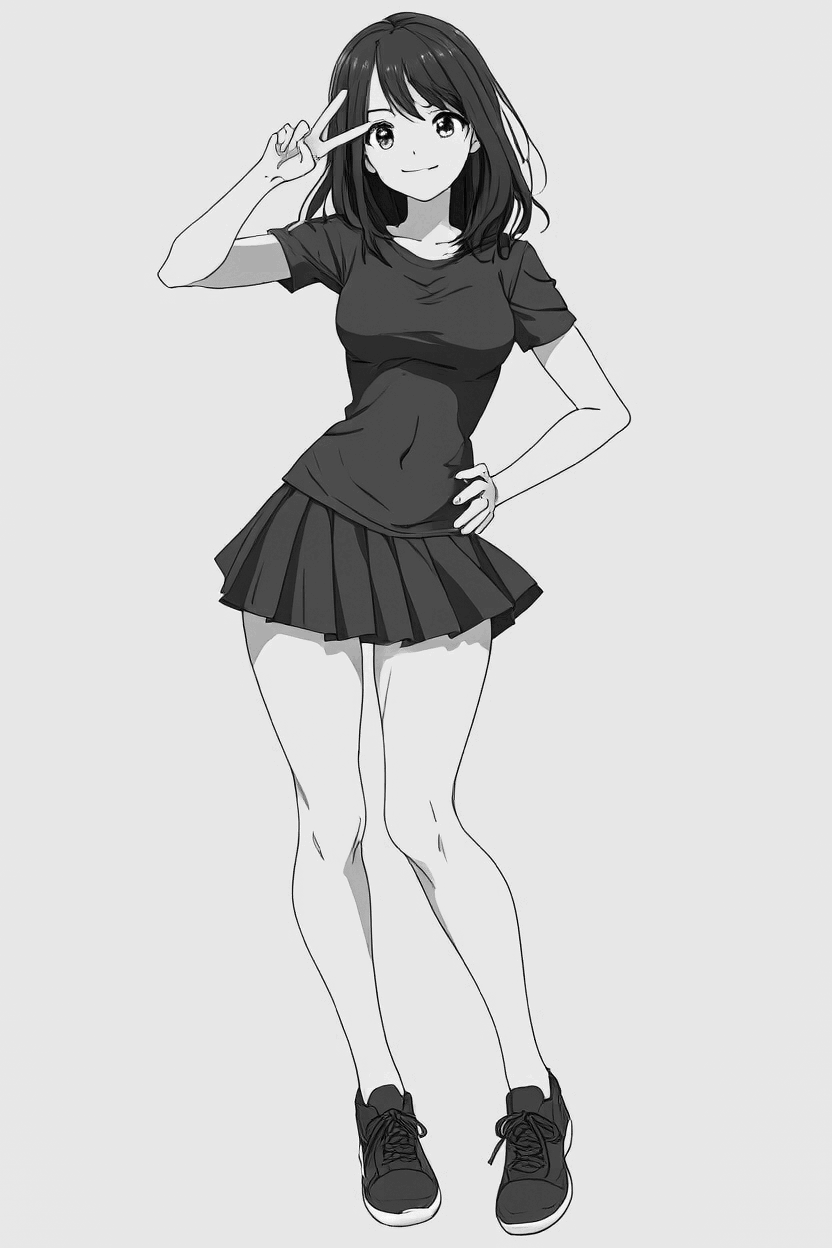
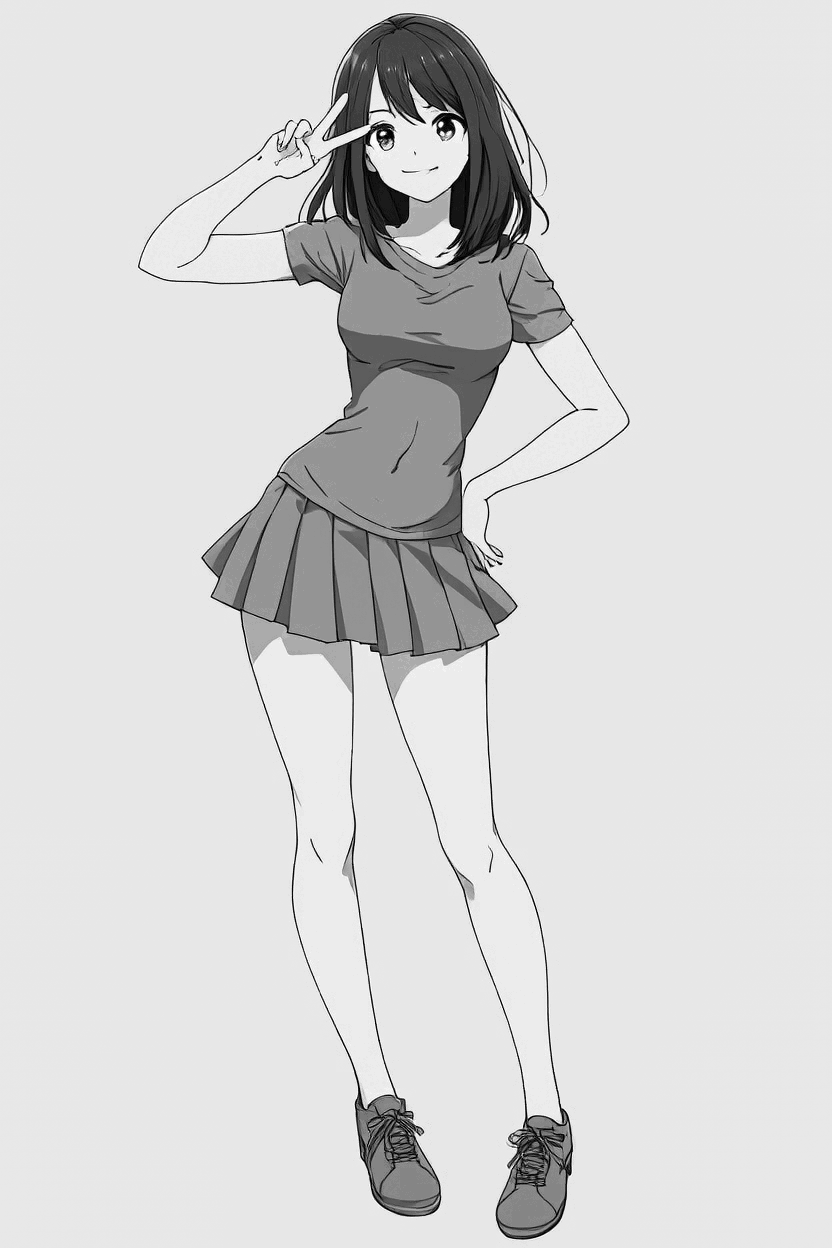
Bodies: words-only first (reference batch shapes), young/grown-up curvy, athletic without six-pack (tags + new drawings), guide shows words vs drawing with limits, athletic example regenerated

diff --git a/docs/guide/index.html b/docs/guide/index.html
@@ -291,10 +291,33 @@ Claude: "what's the tag for the hair buns on the side of the head?" (<code>doubl
 pictures work best. Write them with spaces, not underscores (the Studio fixes that for you).</p>
 
 <h2 id="bodies"><span class="n">5</span>Body types and poses</h2>
-<p>Words alone are unreliable for body types: <code>chibi</code> and <code>curvy</code> work, <code>petite</code> barely
-does, and the model quietly drifts back to its favourite body. The Studio solves that with a <b>body drawing</b>: a plain
-grey picture of a figure with the body and pose you want. The body adapter steers the drawing toward that shape, while
-the style still comes from the prompt and the outfit and background from your tags.</p>
+<p>There are two ways to give her a body type, and the Studio's body menu has both. <b>Words</b> (tags) come first in the
+menu, with a small sample picture; <b>drawings</b> (grey pictures of a figure) follow.</p>
+
+<h3>With words: the model's own idea of the body</h3>
+<p>Body tags with a weight, like <code>(curvy:1.6), (wide hips:1.4), thick thighs</code>. Anima learned these words from
+thousands of drawings, so it draws the shape it knows best: natural curves, a pose that fits her, the Love Live
+proportions. For most body types this gives the nicest shapes.</p>
+<div class="strip c6">
+  <figure><img src="img/words_curvy.jpg" alt="Curvy from words"><figcaption><b>curvy</b></figcaption></figure>
+  <figure><img src="img/words_petite.jpg" alt="Petite from words"><figcaption><b>petite</b></figcaption></figure>
+  <figure><img src="img/words_tall.jpg" alt="Tall from words"><figcaption><b>tall</b></figcaption></figure>
+  <figure><img src="img/words_soft.jpg" alt="Soft from words"><figcaption><b>soft</b></figcaption></figure>
+  <figure><img src="img/words_athletic.jpg" alt="Athletic from words"><figcaption><b>athletic</b>: toned, slim; <code>muscular</code> in "avoid" keeps the six-pack away</figcaption></figure>
+  <figure><img src="img/words_chibi.jpg" alt="Chibi from words"><figcaption><b>chibi</b></figcaption></figure>
+</div>
+<p><b>Young or grown-up curvy</b> is a style choice as much as a body word. Add <code>mature female</code> and use the
+<b>TV look</b> style for a grown-up face; keep the <b>signature</b> style for the younger Love Live face:</p>
+<div class="strip c4">
+  <figure><img src="img/words_curvy_young.jpg" alt="Young curvy"><figcaption><b>curvy</b>, signature style: the Love Live schoolgirl face</figcaption></figure>
+  <figure><img src="img/words_curvy_adult.jpg" alt="Grown-up curvy"><figcaption><b>curvy + mature female</b>, TV look: older face, fuller figure</figcaption></figure>
+  <figure><img src="img/words_curvy_young2.jpg" alt="Young curvy idol"><figcaption>the same two on another girl</figcaption></figure>
+  <figure><img src="img/words_curvy_adult2.jpg" alt="Grown-up curvy idol"><figcaption></figcaption></figure>
+</div>
+
+<h3>With a drawing: exactly this body, exactly this pose</h3>
+<p>A plain grey picture of a figure goes through the body adapter, which steers the drawing toward that shape and pose.
+The style still comes from the prompt, and the outfit and background from your tags.</p>
 <div class="strip c6">
   <figure class="ctl"><img src="img/ctl_average_idol.jpg" alt="Average body, idol pose drawing"><figcaption>average, idol pose</figcaption></figure>
   <figure class="ctl"><img src="img/ctl_petite.jpg" alt="Petite body drawing"><figcaption>petite</figcaption></figure>
@@ -303,7 +326,7 @@ the style still comes from the prompt and the outfit and background from your ta
   <figure class="ctl"><img src="img/ctl_soft.jpg" alt="Soft body drawing"><figcaption>soft</figcaption></figure>
   <figure class="ctl"><img src="img/ctl_chibi.jpg" alt="Chibi body drawing"><figcaption>chibi</figcaption></figure>
 </div>
-<p>One idol, one stage, one seed, and only the body drawing changes:</p>
+<p>One idol, one stage, one seed, and only the drawing changes:</p>
 <div class="strip c6">
   <figure><img src="img/body_petite.jpg" alt="Petite idol"><figcaption><b>petite</b></figcaption></figure>
   <figure><img src="img/body_curvy.jpg" alt="Curvy idol"><figcaption><b>curvy</b></figcaption></figure>
@@ -312,8 +335,25 @@ the style still comes from the prompt and the outfit and background from your ta
   <figure><img src="img/body_athletic.jpg" alt="Athletic idol"><figcaption><b>athletic</b></figcaption></figure>
   <figure><img src="img/body_chibi.jpg" alt="Chibi idol"><figcaption><b>chibi</b></figcaption></figure>
 </div>
-<p>The stage, the lights, the orange side ponytail and the Love Live face stay. Only the body changes. The drawings are
-on a plain background, so they don't drag their own scene in.</p>
+
+<h3>Words or drawing? Side by side</h3>
+<div class="strip c6">
+  <figure><img src="img/vs_curvy_words.jpg" alt="Curvy, words"><figcaption><b>curvy, words</b>: rounder, more natural curves</figcaption></figure>
+  <figure><img src="img/vs_curvy_drawing.jpg" alt="Curvy, drawing"><figcaption><b>curvy, drawing</b>: the drawing's pose; shape only as good as the drawing</figcaption></figure>
+  <figure><img src="img/vs_petite_words.jpg" alt="Petite, words"><figcaption><b>petite, words</b></figcaption></figure>
+  <figure><img src="img/vs_petite_drawing.jpg" alt="Petite, drawing"><figcaption><b>petite, drawing</b>: reliably small every time</figcaption></figure>
+  <figure><img src="img/vs_soft_words.jpg" alt="Soft, words"><figcaption><b>soft, words</b></figcaption></figure>
+  <figure><img src="img/vs_soft_drawing.jpg" alt="Soft, drawing"><figcaption><b>soft, drawing</b></figcaption></figure>
+</div>
+<div class="tbl"><table>
+  <thead><tr><th></th><th>Words (tags)</th><th>Drawing</th></tr></thead>
+  <tbody>
+  <tr><td><b>Good at</b></td><td>Natural, well-drawn shapes (curvy, tall, soft, chibi especially); lively poses that fit the scene; nothing to set up</td><td>Exactly the body and pose you picked, every seed; bodies words can't describe ("5.5 heads tall, short arms"); the same body across a whole series</td></tr>
+  <tr><td><b>Limits</b></td><td><code>petite</code> is weak; how strong the body comes out varies with the seed and the outfit; you can't pick the pose or exact proportions; too-high weights (above ~1.8) break anatomy</td><td>The shape is only as good as the drawing (our curvy drawing is less shapely than the words); poses are stiffer; at high strength she copies the drawing's T-shirt shape and hair; the figure must fill its frame, or the face comes out small</td></tr>
+  <tr><td><b>Use it for</b></td><td>Most pictures: start here</td><td>A specific pose, a body the words miss, or a character who must look the same in every picture</td></tr>
+  </tbody>
+</table></div>
+
 <h3>Why the drawing fills its frame</h3>
 <p>The drawing also decides how big she is in the picture. A small figure with lots of empty space around it gives a
 small face, and a small face loses the big Love Live eyes. That's why every drawing fills its frame from head to feet,
@@ -498,7 +538,7 @@ steer away from that in general.</p>
 </main>
 </div>
 <div id="zoom" role="dialog" aria-label="Enlarged picture"><img alt=""></div>
-<script id="exdata" type="application/json">[{"title": "Seaside schoolgirl (the lab's test girl)", "style": "ll_signature", "body": "none", "seed": 1, "prompt": "masterpiece, best quality, year 2016, anime screenshot, 1girl, solo, short silver hair, single braid, purple eyes, white cardigan, sailor school uniform, pleated skirt, @murota yuuhei, cowboy shot, holding paper cup, seaside railing, ocean, blue sky, smile", "img": "img/ex01.jpg", "character": "1girl, solo, short silver hair, single braid, purple eyes, white cardigan, sailor school uniform, pleated skirt", "scene": "cowboy shot, holding paper cup, seaside railing, ocean, blue sky, smile", "secs": 64.2}, {"title": "Idol on stage", "style": "ll_signature", "body": "average_idol", "seed": 2, "prompt": "masterpiece, best quality, year 2016, anime screenshot, 1girl, solo, long orange hair, side ponytail, green eyes, idol clothes, frilled dress, white gloves, hair ribbon, @murota yuuhei, full body, concert stage, stage lights, light particles, smile, open mouth", "img": "img/ex02.jpg", "character": "1girl, solo, long orange hair, side ponytail, green eyes, idol clothes, frilled dress, white gloves, hair ribbon", "scene": "concert stage, stage lights, light particles, smile, open mouth", "secs": 74.2}, {"title": "Card art with sparkles", "style": "ll_card", "body": "none", "seed": 1, "prompt": "masterpiece, best quality, year 2016, official art, 1girl, solo, long black hair, hime cut, red eyes, idol clothes, white and gold dress, tiara, detached sleeves, @murota yuuhei, upper body, sparkle, light particles, flower petals, looking at viewer, smile", "img": "img/ex03.jpg", "character": "1girl, solo, long black hair, hime cut, red eyes, idol clothes, white and gold dress, tiara, detached sleeves", "scene": "upper body, sparkle, light particles, flower petals, looking at viewer, smile", "secs": 72.2}, {"title": "Summer festival yukata", "style": "ll_signature", "body": "none", "seed": 1, "prompt": "masterpiece, best quality, year 2016, anime screenshot, 1girl, solo, medium pink hair, low twintails, blue eyes, yukata, floral print, hair flower, @murota yuuhei, cowboy shot, summer festival, night, paper lanterns, fireworks, holding fan, smile", "img": "img/ex04.jpg", "character": "1girl, solo, medium pink hair, low twintails, blue eyes, yukata, floral print, hair flower", "scene": "cowboy shot, summer festival, night, paper lanterns, fireworks, holding fan, smile", "secs": 73.5}, {"title": "Rainy afternoon", "style": "ll_signature", "body": "none", "seed": 1, "prompt": "masterpiece, best quality, year 2016, anime screenshot, 1girl, solo, short blue hair, bob cut, tareme, grey eyes, oversized hoodie, school bag, @murota yuuhei, upper body, rain, transparent umbrella, city street, puddles, wet hair, gentle smile", "img": "img/ex05.jpg", "character": "1girl, solo, short blue hair, bob cut, tareme, grey eyes, oversized hoodie, school bag", "scene": "upper body, rain, transparent umbrella, city street, puddles, wet hair, gentle smile", "secs": 74.4}, {"title": "Rooftop at sunset", "style": "ll_signature", "body": "none", "seed": 1, "prompt": "masterpiece, best quality, year 2016, anime screenshot, 1girl, solo, long brown hair, ponytail, amber eyes, sailor school uniform, red neckerchief, @murota yuuhei, cowboy shot, school rooftop, sunset, orange sky, wind, hair blowing, looking back, smile", "img": "img/ex06.jpg", "character": "1girl, solo, long brown hair, ponytail, amber eyes, sailor school uniform, red neckerchief", "scene": "cowboy shot, school rooftop, sunset, orange sky, wind, hair blowing, looking back, smile", "secs": 74.2}, {"title": "Cafe, sitting", "style": "ll_signature", "body": "average_sit", "seed": 2, "prompt": "masterpiece, best quality, year 2016, anime screenshot, 1girl, solo, wavy blonde hair, long hair, green eyes, beret, cream sweater, long skirt, @murota yuuhei, full body, sitting, cafe, window, holding cup, latte, warm lighting, smile", "img": "img/ex07.jpg", "character": "1girl, solo, wavy blonde hair, long hair, green eyes, beret, cream sweater, long skirt", "scene": "cafe, window, holding cup, latte, warm lighting, smile", "secs": 74.4}, {"title": "Jumping for joy", "style": "ll_signature", "body": "average_jump", "seed": 1, "prompt": "masterpiece, best quality, year 2016, anime screenshot, 1girl, solo, short orange hair, ahoge, red eyes, sailor school uniform, pleated skirt, @murota yuuhei, full body, jumping, cherry blossoms, petals, blue sky, open mouth, happy", "img": "img/ex08.jpg", "character": "1girl, solo, short orange hair, ahoge, red eyes, sailor school uniform, pleated skirt", "scene": "cherry blossoms, petals, blue sky, open mouth, happy", "secs": 75.3}, {"title": "Chibi sticker", "style": "ll_signature", "body": "chibi_idol", "seed": 1, "prompt": "masterpiece, best quality, year 2016, anime screenshot, 1girl, solo, long purple hair, twin drills, yellow eyes, idol clothes, frills, @murota yuuhei, (chibi:1.8), (super deformed:1.4), full body, simple background, white background, smile, :d", "img": "img/ex09.jpg", "character": "1girl, solo, long purple hair, twin drills, yellow eyes, idol clothes, frills", "scene": "simple background, white background, smile, :d", "secs": 74.7}, {"title": "Curvy idol", "style": "ll_signature", "body": "curvy_idol", "seed": 2, "prompt": "masterpiece, best quality, year 2016, anime screenshot, 1girl, solo, long wavy dark green hair, golden eyes, mole under eye, idol clothes, off-shoulder dress, choker, @murota yuuhei, (curvy:1.6), (wide hips:1.4), thick thighs, large breasts, mature female, full body, concert stage, stage lights, light particles, wink, smile", "img": "img/ex10.jpg", "character": "1girl, solo, long wavy dark green hair, golden eyes, mole under eye, idol clothes, off-shoulder dress, choker", "scene": "concert stage, stage lights, light particles, wink, smile", "secs": 74.4}, {"title": "Tall cool girl in the city", "style": "ll_signature", "body": "tall", "seed": 1, "prompt": "masterpiece, best quality, year 2016, anime screenshot, 1girl, solo, long straight black hair, tsurime, blue eyes, leather jacket, black skirt, boots, @murota yuuhei, (tall female:1.6), (skinny:1.3), long legs, full body, night, city, neon lights, street, serious, looking at viewer", "img": "img/ex11.jpg", "character": "1girl, solo, long straight black hair, tsurime, blue eyes, leather jacket, black skirt, boots", "scene": "night, city, neon lights, street, serious, looking at viewer", "secs": 74.5}, {"title": "Soft and cozy winter", "style": "ll_signature", "body": "soft", "seed": 1, "prompt": "masterpiece, best quality, year 2016, anime screenshot, 1girl, solo, short light brown hair, braid, brown eyes, freckles, red scarf, knit sweater, pleated skirt, black pantyhose, mittens, @murota yuuhei, (plump:1.5), chubby, round face, thick arms, thick thighs, full body, snow, winter, town, christmas lights, blush, smile", "img": "img/ex12.jpg", "character": "1girl, solo, short light brown hair, braid, brown eyes, freckles, red scarf, knit sweater, pleated skirt, black pantyhose, mittens", "scene": "snow, winter, town, christmas lights, blush, smile", "secs": 75.4}, {"title": "Athletic dancer", "style": "ll_signature", "body": "athletic_idol", "seed": 1, "prompt": "masterpiece, best quality, year 2016, anime screenshot, 1girl, solo, short red hair, hair intakes, orange eyes, thick eyebrows, sports bra, track jacket, shorts, @murota yuuhei, (toned:1.3), athletic, full body, dance practice room, mirror, sweat, grin", "img": "img/ex13.jpg", "character": "1girl, solo, short red hair, hair intakes, orange eyes, thick eyebrows, sports bra, track jacket, shorts", "scene": "dance practice room, mirror, sweat, grin", "secs": 75.4}, {"title": "A face that isn't generic", "style": "ll_signature", "body": "none", "seed": 1, "prompt": "masterpiece, best quality, year 2016, anime screenshot, 1girl, solo, short black hair, hair intakes, jitome, thick eyebrows, freckles, fang, green eyes, oversized cardigan, school uniform, @murota yuuhei, upper body, classroom, window, afternoon, smug", "img": "img/ex14.jpg", "character": "1girl, solo, short black hair, hair intakes, jitome, thick eyebrows, freckles, fang, green eyes, oversized cardigan, school uniform", "scene": "upper body, classroom, window, afternoon, smug", "secs": 73.4}, {"title": "Three idols together", "style": "ll_signature", "body": "none", "seed": 1, "prompt": "masterpiece, best quality, year 2016, anime screenshot, 3girls, idol clothes, matching outfits, red hair, blonde hair, blue hair, @murota yuuhei, concert stage, stage lights, holding hands, smile, open mouth, cowboy shot", "img": "img/ex15.jpg", "character": "3girls, idol clothes, matching outfits, red hair, blonde hair, blue hair", "scene": "concert stage, stage lights, holding hands, smile, open mouth, cowboy shot", "secs": 74.3}, {"title": "Canon fan art: You Watanabe", "style": "ll_canon", "body": "none", "seed": 1, "prompt": "masterpiece, best quality, year 2016, anime screenshot, love live! sunshine!!, 1girl, solo, watanabe you, uranohoshi school uniform, @murota yuuhei, cowboy shot, seaside, salute, smile, blue sky", "img": "img/ex16.jpg", "character": "1girl, solo, watanabe you, uranohoshi school uniform", "scene": "cowboy shot, seaside, salute, smile, blue sky", "secs": 71.2}]</script>
+<script id="exdata" type="application/json">[{"title": "Seaside schoolgirl (the lab's test girl)", "style": "ll_signature", "body": "none", "seed": 1, "prompt": "masterpiece, best quality, year 2016, anime screenshot, 1girl, solo, short silver hair, single braid, purple eyes, white cardigan, sailor school uniform, pleated skirt, @murota yuuhei, cowboy shot, holding paper cup, seaside railing, ocean, blue sky, smile", "img": "img/ex01.jpg", "character": "1girl, solo, short silver hair, single braid, purple eyes, white cardigan, sailor school uniform, pleated skirt", "scene": "cowboy shot, holding paper cup, seaside railing, ocean, blue sky, smile", "secs": 64.2}, {"title": "Idol on stage", "style": "ll_signature", "body": "average_idol", "seed": 2, "prompt": "masterpiece, best quality, year 2016, anime screenshot, 1girl, solo, long orange hair, side ponytail, green eyes, idol clothes, frilled dress, white gloves, hair ribbon, @murota yuuhei, full body, concert stage, stage lights, light particles, smile, open mouth", "img": "img/ex02.jpg", "character": "1girl, solo, long orange hair, side ponytail, green eyes, idol clothes, frilled dress, white gloves, hair ribbon", "scene": "concert stage, stage lights, light particles, smile, open mouth", "secs": 74.2}, {"title": "Card art with sparkles", "style": "ll_card", "body": "none", "seed": 1, "prompt": "masterpiece, best quality, year 2016, official art, 1girl, solo, long black hair, hime cut, red eyes, idol clothes, white and gold dress, tiara, detached sleeves, @murota yuuhei, upper body, sparkle, light particles, flower petals, looking at viewer, smile", "img": "img/ex03.jpg", "character": "1girl, solo, long black hair, hime cut, red eyes, idol clothes, white and gold dress, tiara, detached sleeves", "scene": "upper body, sparkle, light particles, flower petals, looking at viewer, smile", "secs": 72.2}, {"title": "Summer festival yukata", "style": "ll_signature", "body": "none", "seed": 1, "prompt": "masterpiece, best quality, year 2016, anime screenshot, 1girl, solo, medium pink hair, low twintails, blue eyes, yukata, floral print, hair flower, @murota yuuhei, cowboy shot, summer festival, night, paper lanterns, fireworks, holding fan, smile", "img": "img/ex04.jpg", "character": "1girl, solo, medium pink hair, low twintails, blue eyes, yukata, floral print, hair flower", "scene": "cowboy shot, summer festival, night, paper lanterns, fireworks, holding fan, smile", "secs": 73.5}, {"title": "Rainy afternoon", "style": "ll_signature", "body": "none", "seed": 1, "prompt": "masterpiece, best quality, year 2016, anime screenshot, 1girl, solo, short blue hair, bob cut, tareme, grey eyes, oversized hoodie, school bag, @murota yuuhei, upper body, rain, transparent umbrella, city street, puddles, wet hair, gentle smile", "img": "img/ex05.jpg", "character": "1girl, solo, short blue hair, bob cut, tareme, grey eyes, oversized hoodie, school bag", "scene": "upper body, rain, transparent umbrella, city street, puddles, wet hair, gentle smile", "secs": 74.4}, {"title": "Rooftop at sunset", "style": "ll_signature", "body": "none", "seed": 1, "prompt": "masterpiece, best quality, year 2016, anime screenshot, 1girl, solo, long brown hair, ponytail, amber eyes, sailor school uniform, red neckerchief, @murota yuuhei, cowboy shot, school rooftop, sunset, orange sky, wind, hair blowing, looking back, smile", "img": "img/ex06.jpg", "character": "1girl, solo, long brown hair, ponytail, amber eyes, sailor school uniform, red neckerchief", "scene": "cowboy shot, school rooftop, sunset, orange sky, wind, hair blowing, looking back, smile", "secs": 74.2}, {"title": "Cafe, sitting", "style": "ll_signature", "body": "average_sit", "seed": 2, "prompt": "masterpiece, best quality, year 2016, anime screenshot, 1girl, solo, wavy blonde hair, long hair, green eyes, beret, cream sweater, long skirt, @murota yuuhei, full body, sitting, cafe, window, holding cup, latte, warm lighting, smile", "img": "img/ex07.jpg", "character": "1girl, solo, wavy blonde hair, long hair, green eyes, beret, cream sweater, long skirt", "scene": "cafe, window, holding cup, latte, warm lighting, smile", "secs": 74.4}, {"title": "Jumping for joy", "style": "ll_signature", "body": "average_jump", "seed": 1, "prompt": "masterpiece, best quality, year 2016, anime screenshot, 1girl, solo, short orange hair, ahoge, red eyes, sailor school uniform, pleated skirt, @murota yuuhei, full body, jumping, cherry blossoms, petals, blue sky, open mouth, happy", "img": "img/ex08.jpg", "character": "1girl, solo, short orange hair, ahoge, red eyes, sailor school uniform, pleated skirt", "scene": "cherry blossoms, petals, blue sky, open mouth, happy", "secs": 75.3}, {"title": "Chibi sticker", "style": "ll_signature", "body": "chibi_idol", "seed": 1, "prompt": "masterpiece, best quality, year 2016, anime screenshot, 1girl, solo, long purple hair, twin drills, yellow eyes, idol clothes, frills, @murota yuuhei, (chibi:1.8), (super deformed:1.4), full body, simple background, white background, smile, :d", "img": "img/ex09.jpg", "character": "1girl, solo, long purple hair, twin drills, yellow eyes, idol clothes, frills", "scene": "simple background, white background, smile, :d", "secs": 74.7}, {"title": "Curvy idol", "style": "ll_signature", "body": "curvy_idol", "seed": 2, "prompt": "masterpiece, best quality, year 2016, anime screenshot, 1girl, solo, long wavy dark green hair, golden eyes, mole under eye, idol clothes, off-shoulder dress, choker, @murota yuuhei, (curvy:1.6), (wide hips:1.4), thick thighs, large breasts, mature female, full body, concert stage, stage lights, light particles, wink, smile", "img": "img/ex10.jpg", "character": "1girl, solo, long wavy dark green hair, golden eyes, mole under eye, idol clothes, off-shoulder dress, choker", "scene": "concert stage, stage lights, light particles, wink, smile", "secs": 74.4}, {"title": "Tall cool girl in the city", "style": "ll_signature", "body": "tall", "seed": 1, "prompt": "masterpiece, best quality, year 2016, anime screenshot, 1girl, solo, long straight black hair, tsurime, blue eyes, leather jacket, black skirt, boots, @murota yuuhei, (tall female:1.6), (skinny:1.3), long legs, full body, night, city, neon lights, street, serious, looking at viewer", "img": "img/ex11.jpg", "character": "1girl, solo, long straight black hair, tsurime, blue eyes, leather jacket, black skirt, boots", "scene": "night, city, neon lights, street, serious, looking at viewer", "secs": 74.5}, {"title": "Soft and cozy winter", "style": "ll_signature", "body": "soft", "seed": 1, "prompt": "masterpiece, best quality, year 2016, anime screenshot, 1girl, solo, short light brown hair, braid, brown eyes, freckles, red scarf, knit sweater, pleated skirt, black pantyhose, mittens, @murota yuuhei, (plump:1.5), chubby, round face, thick arms, thick thighs, full body, snow, winter, town, christmas lights, blush, smile", "img": "img/ex12.jpg", "character": "1girl, solo, short light brown hair, braid, brown eyes, freckles, red scarf, knit sweater, pleated skirt, black pantyhose, mittens", "scene": "snow, winter, town, christmas lights, blush, smile", "secs": 75.4}, {"title": "Athletic dancer", "style": "ll_signature", "body": "athletic_tags", "seed": 1, "prompt": "masterpiece, best quality, year 2016, anime screenshot, 1girl, solo, short red hair, hair intakes, orange eyes, thick eyebrows, sports bra, track jacket, shorts, @murota yuuhei, athletic, toned, slim, small waist, full body, dance practice room, mirror, sweat, grin", "img": "img/ex13.jpg", "character": "1girl, solo, short red hair, hair intakes, orange eyes, thick eyebrows, sports bra, track jacket, shorts", "scene": "dance practice room, mirror, sweat, grin", "secs": 75.4}, {"title": "A face that isn't generic", "style": "ll_signature", "body": "none", "seed": 1, "prompt": "masterpiece, best quality, year 2016, anime screenshot, 1girl, solo, short black hair, hair intakes, jitome, thick eyebrows, freckles, fang, green eyes, oversized cardigan, school uniform, @murota yuuhei, upper body, classroom, window, afternoon, smug", "img": "img/ex14.jpg", "character": "1girl, solo, short black hair, hair intakes, jitome, thick eyebrows, freckles, fang, green eyes, oversized cardigan, school uniform", "scene": "upper body, classroom, window, afternoon, smug", "secs": 73.4}, {"title": "Three idols together", "style": "ll_signature", "body": "none", "seed": 1, "prompt": "masterpiece, best quality, year 2016, anime screenshot, 3girls, idol clothes, matching outfits, red hair, blonde hair, blue hair, @murota yuuhei, concert stage, stage lights, holding hands, smile, open mouth, cowboy shot", "img": "img/ex15.jpg", "character": "3girls, idol clothes, matching outfits, red hair, blonde hair, blue hair", "scene": "concert stage, stage lights, holding hands, smile, open mouth, cowboy shot", "secs": 74.3}, {"title": "Canon fan art: You Watanabe", "style": "ll_canon", "body": "none", "seed": 1, "prompt": "masterpiece, best quality, year 2016, anime screenshot, love live! sunshine!!, 1girl, solo, watanabe you, uranohoshi school uniform, @murota yuuhei, cowboy shot, seaside, salute, smile, blue sky", "img": "img/ex16.jpg", "character": "1girl, solo, watanabe you, uranohoshi school uniform", "scene": "cowboy shot, seaside, salute, smile, blue sky", "secs": 71.2}]</script>
 <script id="tunedata" type="application/json">[{"img": "img/tune_00.jpg", "label": "Love Live TV look", "note": "the starting point"}, {"img": "img/tune_01.jpg", "label": "year 2023", "note": "brighter, sharper"}, {"img": "img/tune_02.jpg", "label": "official art", "note": "card look"}, {"img": "img/tune_03.jpg", "label": "Anima Base model", "note": "flatter cel colour"}, {"img": "img/tune_04.jpg", "label": "90s anime", "note": "designer 0.6, year 1995, retro tags"}, {"img": "img/tune_05.jpg", "label": "Base + retro tags", "note": ""}, {"img": "img/tune_06.jpg", "label": "+ @kantoku", "note": "softer, more detail"}, {"img": "img/tune_07.jpg", "label": "+ @fuzichoco", "note": "pale, painted"}, {"img": "img/tune_08.jpg", "label": "+ @ikeda kazumi", "note": "KyoAni-like"}, {"img": "img/tune_09.jpg", "label": "+ @ixy", "note": ""}, {"img": "img/tune_10.jpg", "label": "+ @mignon", "note": ""}, {"img": "img/tune_11.jpg", "label": "pastel colors", "note": "hardly changes it"}]</script>
 <script>
 (function(){

diff --git a/kit/studio/index.html b/kit/studio/index.html
@@ -190,7 +190,7 @@ async function init(){
   $("#style").onchange=()=>{$("#styleAbout").textContent=P.styles[$("#style").value].about||"";preview()};
   $("#framing").innerHTML=Object.keys(P.framing).map(k=>`<option>${k}</option>`).join("");
   $("#quality").innerHTML=Object.entries(P.quality).map(([k,v])=>`<option value="${k}">${esc(v.label)}</option>`).join("");
-  $("#bodies").innerHTML=Object.entries(P.bodies).map(([k,v])=>`<div class="body" data-b="${k}" title="${esc(v.tags||'')}">${v.control?`<img loading="lazy" src="/control/${v.control}">`:'<div class="none">tags only</div>'}${esc(v.label)}</div>`).join("");
+  $("#bodies").innerHTML=Object.entries(P.bodies).map(([k,v])=>`<div class="body" data-b="${k}" title="${esc(v.tags||'')}">${v.control?`<img loading="lazy" src="/control/${v.control}">`:v.thumb?`<img loading="lazy" src="/control/${v.thumb}" style="object-fit:cover">`:'<div class="none">tags only</div>'}${esc(v.label)}</div>`).join("");
   $$(".body").forEach(d=>d.onclick=()=>setBody(d.dataset.b));
   $("#strength").oninput=()=>{$("#strengthV").textContent=$("#strength").value};
   ["#character","#scene","#extra_neg"].forEach(s=>$(s).addEventListener("input",preview));

diff --git a/kit/studio/core.py b/kit/studio/core.py
@@ -108,7 +108,8 @@ def build_negative(job, P=None):
     if job.get("engine") == "h3":
         return ""
     st = P["styles"][job.get("style") or P["default_style"]]
-    return clean(st.get("negative", P["negative"]) + ", " + (job.get("extra_neg") or ""))
+    body = P["bodies"].get(str(job.get("body") or "none"), {})
+    return clean(st.get("negative", P["negative"]) + ", " + body.get("neg", "") + ", " + (job.get("extra_neg") or ""))
 
 
 def control_file(job, P=None):

diff --git a/CLAUDE.md b/CLAUDE.md
@@ -110,7 +110,14 @@ exactly what they will see and what to press.
 - **Prompt order** (Anima was trained this way): `masterpiece, best quality, year 2016, anime screenshot, <character
   tags>, @murota yuuhei, <body tags>, <scene tags>`. Danbooru tags, lower case, spaces instead of underscores, one artist tag.
   Weights like `(curvy:1.6)` strengthen a tag (Anima needs 1.4-1.8 where older models used 1.2).
-- **Body type and pose:** a grey drawing of a body (`kit/controls/`, picked in the Studio) goes through the
+- **Body type: words first.** The body menu starts with *words only* bodies (tags with weights, no drawing): the
+  model's own idea of the body gives the best shapes (curvy, tall, soft, chibi) and natural poses; this matches the
+  kit author's reference batch. Curvy comes young (signature style) or grown-up (`mature female` + the `ll_tv` style:
+  older face, fuller figure). Athletic: `athletic, toned, slim, small waist` with `muscular, muscular female, biceps` in
+  the body's negative (a `neg` field in presets) so no six-pack; never `abs` or `(toned:1.3)`. Use a **drawing** when
+  the pose must be exact, the words don't reach the body (petite is weak in words), or a character must keep the same
+  body across pictures. The guide's section 5 shows both side by side with their limits.
+- **Body drawing details:** a grey drawing of a body (`kit/controls/`, picked in the Studio) goes through the
   **LLLite "any-test" adapter** at strength 0.6, active for the first 70% of the steps. It copies the proportions and
   pose. The style still comes from the prompt, and the background and clothes from the scene tags. Keep matching body tags in the
   prompt too. Higher strength copies the drawing's outfit and stiffness; lower gives the prompt more say. Without a
@@ -201,7 +208,7 @@ This is the loop the kit's author uses: try a few variants side by side, the hum
 |---|---|---|
 | "looks generic / like every AI picture" | no artist tag, hype words (`highly detailed, beautiful eyes`), canon-free style without face features | Make sure the style is one of the `ll_*` presets; remove hype words; add 2-3 face features (`tareme`, `tsurime`, `jitome`, `thick eyebrows`, `freckles`, `mole under eye`, `fang`) and a distinct hairstyle; round of 3 variants |
 | "all faces look the same" | same face tags every time | vary eye shape tags, eyebrow, mouth (`:d`, `smug`, `pout`), age look, hair intakes; try `ll_card` / `ll_2020` |
-| "wrong body / not curvy enough / too thin" | tags alone, or drawing strength low | pick the matching body drawing; strength 0.6 -> 0.75; strengthen tags `(curvy:1.8)`; a round across 0.5/0.6/0.75 |
+| "wrong body / not curvy enough / too thin" | words too weak for this seed/outfit, or a drawing whose shape is worse than the words | try the *words only* body first with a few seeds, strengthen `(curvy:1.8)`; if the words can't get it (petite) use the drawing, strength 0.6 -> 0.75; round across both |
 | "she's stiff / always standing straight" | the drawing locks the pose | use an idol/jump/wave/sit drawing, lower end to 0.5 or strength to 0.5, or no drawing (tags only) for dynamic poses |
 | "she became a Love Live character" | `ll_canon` style, or canon hair/uniform tags (`uranohoshi school uniform`, ashen hair + braid) | switch to `ll_tv`, change hair colour/style or uniform tags |
 | "extra fingers / weird hands" | normal for these models | new seeds (4 variations), `hands` out of frame (`upper body`), or `bad hands, extra fingers` in avoid |
